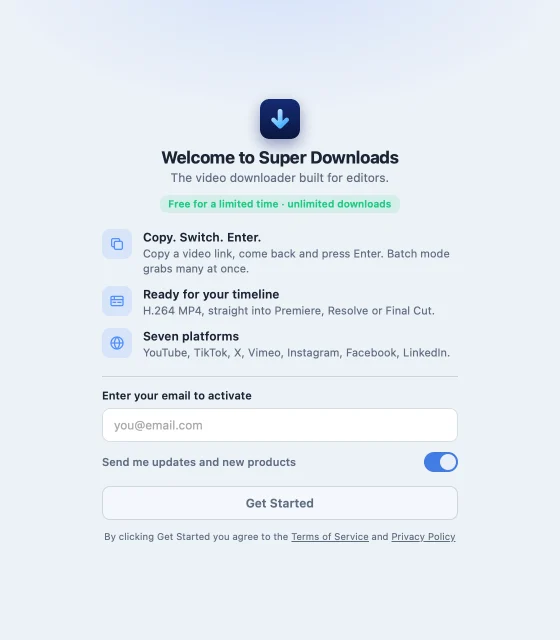
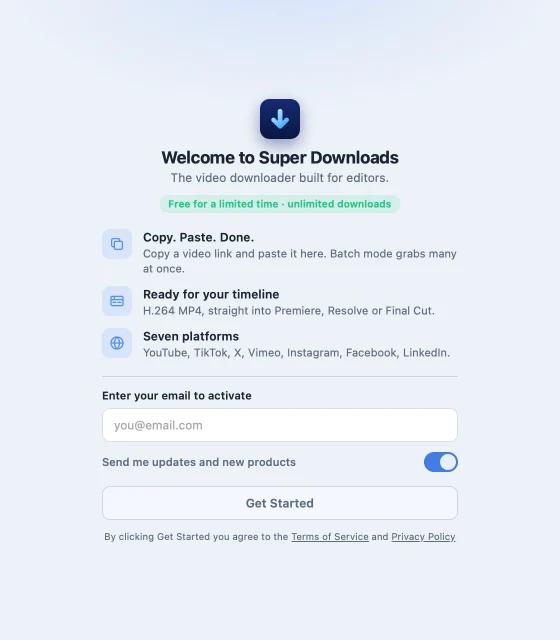
feat(copy): "Copy. Paste. Done." replaces "Copy. Switch. Enter." in landing and app

Changed region(s): [[0.2429, 0.3438, 0.8196, 0.4375]]

diff --git a/src/main.js b/src/main.js
@@ -411,7 +411,7 @@ function showOnboarding() {
       <p class="onboarding-tagline">The video downloader built for editors.</p>
       <div class="onboarding-free-note">${FREE_MODE ? "Free for a limited time · unlimited downloads" : `${FREE_DAILY_LIMIT} free downloads per day — upgrade to Pro for unlimited`}</div>
       <div class="onboarding-features">
-        ${onboardingFeatureHtml("copy", "Copy. Switch. Enter.", "Copy a video link, come back and press Enter. Batch mode grabs many at once.")}
+        ${onboardingFeatureHtml("copy", "Copy. Paste. Done.", "Copy a video link and paste it here. Batch mode grabs many at once.")}
         ${onboardingFeatureHtml("timeline", "Ready for your timeline", "H.264 MP4, straight into Premiere, Resolve or Final Cut.")}
         ${onboardingFeatureHtml("globe", "Seven platforms", "YouTube, TikTok, X, Vimeo, Instagram, Facebook, LinkedIn.")}
       </div>
@@ -947,7 +947,7 @@ function renderDownloadList() {
           <path d="M7 12l5 5 5-5"></path>
           <path d="M5 19h14"></path>
         </svg>
-        <div class="empty-state-title">Copy a video link and come back</div>
+        <div class="empty-state-title">Copy a video link and paste it here</div>
         <div class="empty-state-hint">YouTube, TikTok, X, Vimeo, Instagram, Facebook, LinkedIn</div>
       </div>
     `;

diff --git a/src/index.html b/src/index.html
@@ -179,7 +179,7 @@
           <div class="settings-guide-title">Quick Guide</div>
           <p><strong>Quality</strong>: <strong>1080p</strong> and <strong>720p</strong> are usually fastest — the app takes an H.264 stream directly. <strong>Best</strong> goes up to 4K; when the source only offers 4K as VP9/AV1 (YouTube) it is converted to H.264 for editing, which takes longer.</p>
           <p><strong>Format</strong>: <strong>Audio MP3</strong> saves only an .mp3 file — no video. It switches back to Video each time the app opens.</p>
-          <p><strong>Copy &amp; come back</strong>: copy a video link, switch to the app and it is already in the field — press <strong>Enter</strong>. Pasting a link downloads it right away.</p>
+          <p><strong>Copy &amp; paste</strong>: paste a video link and it downloads right away. Shortcut: switch to the app and the link you copied is already in the field — press <strong>Enter</strong>.</p>
           <p><strong>Batch mode</strong> (top bar, ⌘B): every video link you copy downloads automatically, even with the app in the background — for grabbing many videos. Off each time the app opens.</p>
           <button class="settings-guide-close" id="settings-guide-close" type="button">Got it</button>
         </div>
